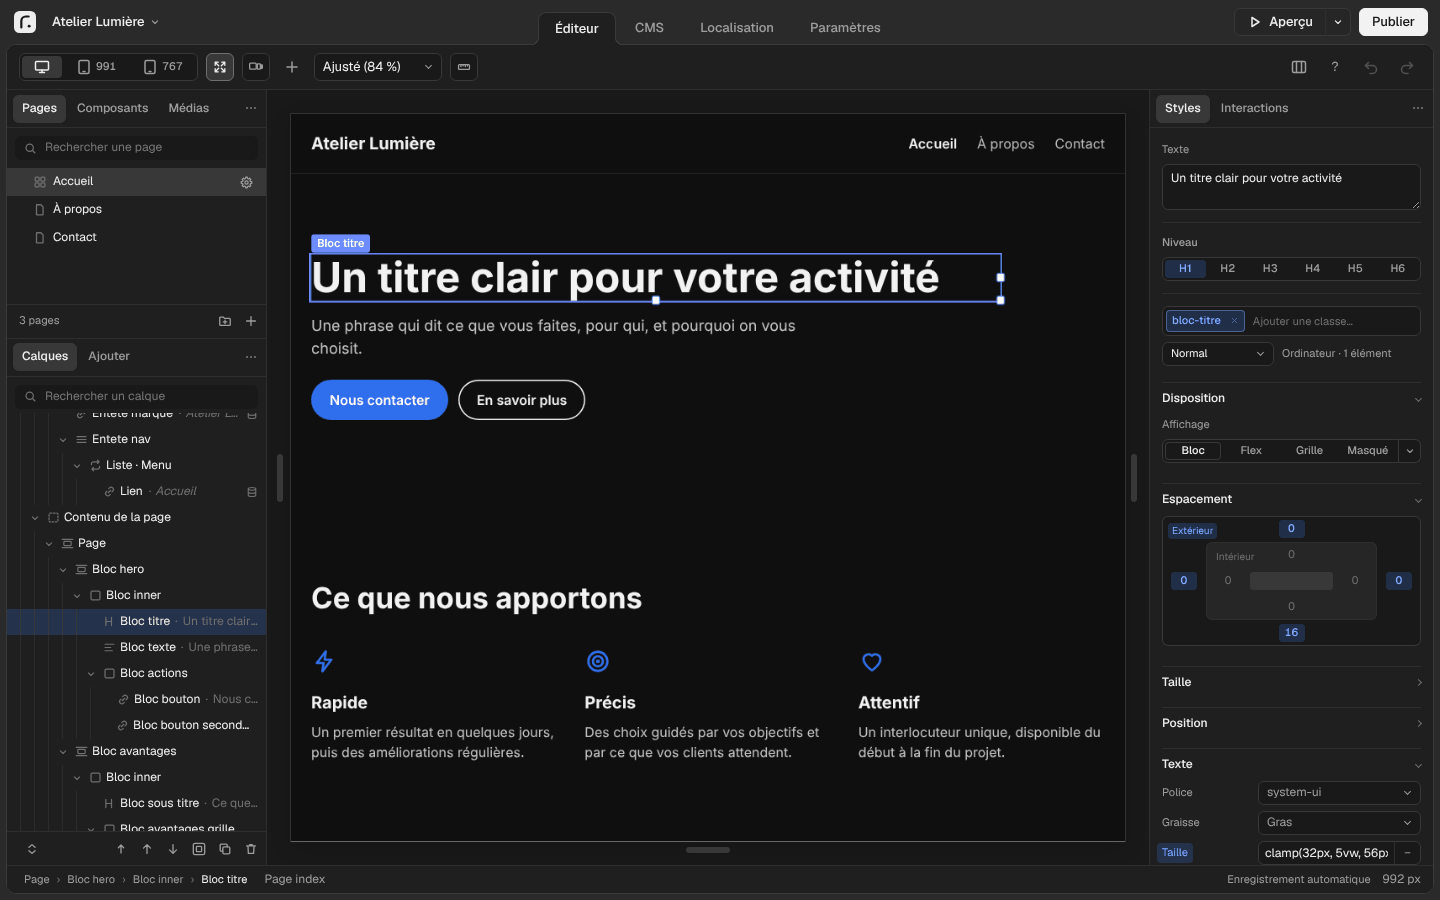
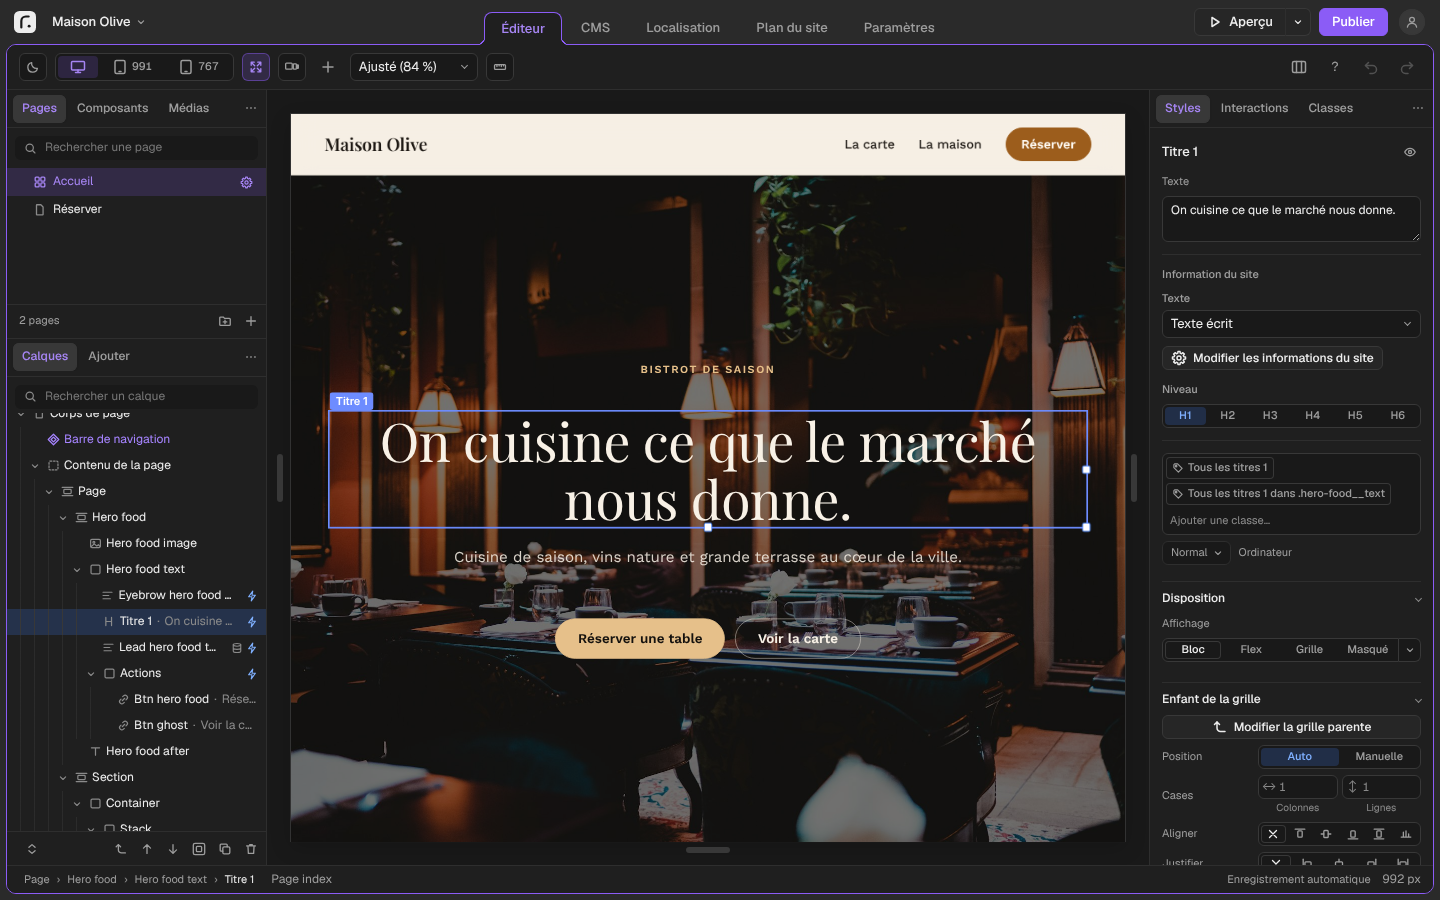
docs: README en sections repliables, captures refaites
Fonctions regroupées en sections repliables (modèles, pages, contenus et
plan du site, animations et panier, mise en ligne, reprise d'un site,
assistants et travail à plusieurs), installation et premier lancement,
partie anglaise et partie des développeurs repliées. Captures refaites sur
la 0.7.2 : éditeur (modèle Restaurant), galerie « Nouveau site », plan du
site (site cobaye), fenêtre d'import. Pont d'essai : site_templates relayé
(galerie des modèles avec leurs aperçus dans les essais et les captures).

Claude-Session: https://claude.ai/code/session_012qBHgPpriCtnKd7ouD61xj

diff --git a/apps/revel-ui/dev/mock-tauri.js b/apps/revel-ui/dev/mock-tauri.js
@@ -71,7 +71,7 @@
   // Pont vers un vrai cœur de Revel (`revel canvas-serve --bridge`) : paramètre `bridge=adresse`.
   // Les commandes de l'éditeur y sont transmises ; le reste reste simulé.
   const bridge = params.get("bridge");
-  const bridged = ["readable_data", "versions_status", "versions_init", "versions_list", "versions_save", "versions_changes", "versions_diff", "versions_restore", "versions_sync", "versions_incoming", "versions_receive", "versions_resolve", "versions_resolve_items", "versions_set_shared", "versions_set_remote", "fonts", "fonts_google", "fonts_add_google", "fonts_add_files", "fonts_remove", "translate_can", "translate", "translate_packs", "translate_remove", "edit_open", "edit_apply", "edit_seal", "edit_flatten_plan", "edit_undo", "edit_redo", "edit_pages", "edit_stamp", "canvas_open", "cms_collections", "cms_folders", "preview_url", "edit_media", "edit_import_media", "edit_replace_media", "edit_locale_data", "media_online", "media_localize", "template_save", "template_file_info"];
+  const bridged = ["readable_data", "versions_status", "versions_init", "versions_list", "versions_save", "versions_changes", "versions_diff", "versions_restore", "versions_sync", "versions_incoming", "versions_receive", "versions_resolve", "versions_resolve_items", "versions_set_shared", "versions_set_remote", "fonts", "fonts_google", "fonts_add_google", "fonts_add_files", "fonts_remove", "translate_can", "translate", "translate_packs", "translate_remove", "edit_open", "edit_apply", "edit_seal", "edit_flatten_plan", "site_templates", "edit_undo", "edit_redo", "edit_pages", "edit_stamp", "canvas_open", "cms_collections", "cms_folders", "preview_url", "edit_media", "edit_import_media", "edit_replace_media", "edit_locale_data", "media_online", "media_localize", "template_save", "template_file_info"];
   // Nom de dossier d'un nouveau site (comme revel_core::site_folder, sans les suffixes).
   const slug = (n) => n.trim().toLowerCase().normalize("NFD").replace(/[\u0300-\u036f]/g, "").replace(/[^a-z0-9]+/g, "-").replace(/^-+|-+$/g, "") || "site";
   // Collections de démonstration (sans pont).

diff --git a/crates/revel-core/src/devserver.rs b/crates/revel-core/src/devserver.rs
@@ -109,6 +109,7 @@ impl Core {
             ),
             "edit_seal" => json(self.edit_seal(site).map_err(f)?),
             "edit_flatten_plan" => json(self.edit_flatten_plan(site).map_err(f)?),
+            "site_templates" => json(self.site_templates(&arg::<String>(args, "lang")?)),
             "edit_pages" => json(self.edit_pages(site).map_err(f)?),
             "edit_media" => json(self.edit_media(site).map_err(f)?),
             "edit_locale_data" => json(

diff --git a/README.md b/README.md
@@ -7,54 +7,103 @@ ordinateur : pas de compte à créer, pas d'abonnement, et votre site reste à v
 > Version actuelle : **0.7.2**, en **préversion**. Revel est en cours de développement : l'essentiel fonctionne,
 > mais attendez-vous à des défauts. Gardez une copie de vos sites importants.
 
-![L'éditeur de Revel : la liste des pages et des calques à gauche, la page au centre, les réglages de l'élément choisi à droite](docs/captures/editeur.png)
+![L'éditeur de Revel : les pages et les calques à gauche, la page au centre, les réglages de l'élément choisi à droite](docs/captures/editeur.png)
+
+**[Télécharger Revel](https://github.com/matv-studio/Revel/releases)** · [Installer](#installer-revel) ·
+[Premiers pas](#premiers-pas) · [In English](#in-english) · [Pour les développeurs](#pour-les-développeurs)
 
 ## À quoi sert Revel
 
 Revel s'adresse à celles et ceux qui veulent un site soigné sans passer par un développeur ni par un service en
 ligne payant au mois. Si vous connaissez Webflow, Framer ou Figma, vous retrouverez la même façon de travailler.
+Le site produit est fait de fichiers standards (pages HTML, feuilles de style, images) : vous pouvez l'héberger où
+vous voulez, et il continue de fonctionner sans Revel.
 
-- **Partir d'un modèle.** 26 modèles de site par métier (agence, restaurant, boutique, cabinet, événement,
-  portfolio…), prêts à personnaliser ; vous pouvez partager les vôtres sous forme de fichier ou de catalogue
-  GitHub.
-- **Construire les pages à l'écran.** Vous placez des éléments (titres, textes, images, boutons, blocs), vous
-  les déplacez, vous écrivez directement dans la page. Les réglages (couleurs, polices, espacements,
-  disposition) se font dans des panneaux, avec des contrôles visuels plutôt que du code. Tout reste modifiable
-  depuis l'interface, y compris un site importé.
-- **Adapter le site à chaque écran.** Ordinateur, tablette, téléphone : chaque taille d'écran se règle à part ;
-  un titre peut s'ajuster à la taille de l'écran. Couleurs claires et sombres, avec un interrupteur pour vos
-  visiteurs.
-- **Voir le site d'un coup d'œil.** Le plan du site montre les pages, les collections et les menus reliés par
-  leurs liens ; on y crée, renomme ou redirige une page, et les liens cassés y sont signalés.
-- **Gérer des contenus.** Articles, projets, membres d'une équipe… sont rangés dans le CMS (gestion des
-  contenus), chacun avec ses champs ; leurs pages se créent toutes seules à partir d'un modèle.
+<details>
+<summary><b>Partir d'un modèle</b></summary>
+
+26 modèles de site par métier (agence, restaurant, boutique, cabinet, événement, portfolio…), prêts à
+personnaliser. Vous pouvez partager les vôtres sous forme de fichier ou de catalogue GitHub, et ouvrir ceux des
+autres depuis « Nouveau site ».
+
+![La galerie « Nouveau site » : modèles par métier, catalogues, fichier de modèle](docs/captures/modeles.png)
+
+</details>
+
+<details>
+<summary><b>Construire et adapter les pages</b></summary>
+
+- **À l'écran.** Vous placez des éléments (titres, textes, images, boutons, blocs), vous les déplacez, vous
+  écrivez directement dans la page. Les réglages (couleurs, polices, espacements, disposition) se font dans des
+  panneaux, avec des contrôles visuels plutôt que du code. Tout reste modifiable depuis l'interface, y compris
+  un site importé.
+- **Pour chaque écran.** Ordinateur, tablette, téléphone : chaque taille d'écran se règle à part ; un titre peut
+  s'ajuster à la taille de l'écran.
+- **En clair et en sombre.** Couleurs du site pour les deux modes, avec un interrupteur pour vos visiteurs.
 - **Réutiliser.** Composants (un en-tête, une carte, un pied de page) modifiés une fois pour toutes les pages,
   médias rangés en dossiers, images allégées automatiquement pour un site rapide.
-- **Animer.** Une quarantaine d'animations prêtes à l'emploi (apparitions, effets de texte, survol, défilement),
-  animations Lottie exportées d'After Effects, menus qui s'ouvrent, onglets, accordéons, carrousels, éléments
-  à glisser, horloge, toile de pixels à dessiner, transitions entre les pages.
+
+</details>
+
+<details>
+<summary><b>Gérer des contenus et voir le site d'un coup d'œil</b></summary>
+
+- **CMS.** Articles, projets, membres d'une équipe… sont rangés dans le CMS (gestion des contenus), chacun avec
+  ses champs ; leurs pages se créent toutes seules à partir d'un modèle.
+- **Plan du site.** Les pages, les collections et les menus reliés par leurs liens ; on y crée, renomme ou
+  redirige une page, et les pages sans lien ou les liens cassés y sont signalés.
+
+![Le plan du site : pages, collections et parties communes reliées par leurs liens](docs/captures/plan.png)
+
+</details>
+
+<details>
+<summary><b>Animer, vendre, traduire</b></summary>
+
+- **Animer.** Une quarantaine d'animations prêtes à l'emploi (apparitions, effets de texte, survol,
+  défilement), animations Lottie exportées d'After Effects, menus qui s'ouvrent, onglets, accordéons,
+  carrousels, éléments à glisser, horloge, toile de pixels à dessiner, transitions entre les pages.
 - **Vendre.** Un panier et un bouton « Ajouter au panier », commande reçue par courriel, paiement par vos liens
   Stripe ou PayPal.
 - **Traduire.** Un site en plusieurs langues ; la traduction automatique se fait sur votre ordinateur, sans
   envoyer vos textes à un service extérieur.
-- **Mettre en ligne en un clic.** La première fois, Revel vous guide pas à pas chez votre hébergeur (OVHcloud,
-  o2switch, Infomaniak, Hostinger, IONOS, ou tout autre hébergement qui accepte SFTP) ou sur GitHub Pages.
-  Il vérifie le site avant chaque publication et peut revenir à la publication précédente. Il vous aide aussi à
-  relier votre nom de domaine et à recevoir par courriel les messages des formulaires du site.
-- **Reprendre un site existant.** Un dossier de pages HTML, un site en ligne à partir de son adresse (y compris
-  un site Framer), un export Webflow et les contenus de son CMS, un fichier Figma, un export WordPress, un dépôt
-  Git ou un projet Eleventy. Un site à construire (SvelteKit, Next.js, Astro, Hugo, Jekyll…) peut être construit
-  par Revel, qui télécharge alors lui-même les outils nécessaires. Le site repris est remis dans la forme de
-  l'éditeur : calques, classes et réglages des panneaux, sans code à reprendre à la main.
-- **Travailler avec un assistant IA.** Claude, ChatGPT, LM Studio, Open WebUI… peuvent modifier votre site à
-  votre demande, par la conversation, depuis votre ordinateur.
-- **Garder l'historique.** Enregistrez des versions de votre site, comparez-les, revenez en arrière.
-- **Travailler à plusieurs.** Chacun modifie sa copie du site puis synchronise, par un dossier partagé de votre
-  réseau (NAS, serveur, sans compte) ou par un dépôt en ligne (GitHub, GitLab). Les modifications faites à des
-  endroits différents se combinent ; un même endroit modifié par deux personnes se choisit en un clic.
 
-Le site produit est fait de fichiers standards (pages HTML, feuilles de style, images) : vous pouvez l'héberger où
-vous voulez, et il continue de fonctionner sans Revel.
+</details>
+
+<details>
+<summary><b>Mettre en ligne</b></summary>
+
+La première fois, Revel vous guide pas à pas chez votre hébergeur (OVHcloud, o2switch, Infomaniak, Hostinger,
+IONOS, ou tout autre hébergement qui accepte SFTP) ou sur GitHub Pages ; ensuite, un clic suffit. Il vérifie le
+site avant chaque publication et peut revenir à la publication précédente. Il vous aide aussi à relier votre nom
+de domaine et à recevoir par courriel les messages des formulaires du site.
+
+</details>
+
+<details>
+<summary><b>Reprendre un site existant</b></summary>
+
+Un dossier de pages HTML, un site en ligne à partir de son adresse (y compris un site Framer), un export Webflow
+et les contenus de son CMS, un fichier Figma, un export WordPress, un dépôt Git ou un projet Eleventy. Un site à
+construire (SvelteKit, Next.js, Astro, Hugo, Jekyll…) peut être construit par Revel, qui télécharge alors
+lui-même les outils nécessaires. Le site repris est remis dans la forme de l'éditeur : calques, classes et
+réglages des panneaux, sans code à reprendre à la main.
+
+![La fenêtre « Importer un site » : Dossier, Lien, Dépôt Git, Figma, WordPress](docs/captures/importer.png)
+
+</details>
+
+<details>
+<summary><b>Travailler avec un assistant IA, garder l'historique, travailler à plusieurs</b></summary>
+
+- **Assistant IA.** Claude, ChatGPT, LM Studio, Open WebUI… peuvent modifier votre site à votre demande, par la
+  conversation, depuis votre ordinateur.
+- **Historique.** Enregistrez des versions de votre site, comparez-les, revenez en arrière.
+- **À plusieurs.** Chacun modifie sa copie du site puis synchronise, par un dossier partagé de votre réseau (NAS,
+  serveur, sans compte) ou par un dépôt en ligne (GitHub, GitLab). Les modifications faites à des endroits
+  différents se combinent ; un même endroit modifié par deux personnes se choisit en un clic.
+
+</details>
 
 ## Installer Revel
 
@@ -69,14 +118,19 @@ vous voulez, et il continue de fonctionner sans Revel.
 | Linux (toutes distributions récentes) | `Revel_…_amd64.AppImage` |
 | Linux Debian, Ubuntu | `Revel_…_amd64.deb` (au choix, à la place de l'AppImage) |
 
-Pour savoir quel Mac vous avez : menu Apple › « À propos de ce Mac » indique « Puce Apple M… » ou
-« Processeur Intel ».
+<details>
+<summary>Quel Mac ai-je ? À quoi servent les autres fichiers ?</summary>
 
-Les autres fichiers servent à des cas particuliers : `.msi` pour un déploiement par un service informatique
-sous Windows, `.rpm` pour Fedora et openSUSE. Ceux en `.sig`, `.app.tar.gz` et `latest.json` sont utilisés par
-les mises à jour automatiques : inutile de les télécharger.
+Menu Apple › « À propos de ce Mac » indique « Puce Apple M… » ou « Processeur Intel ».
 
-### Premier lancement
+Les autres fichiers servent à des cas particuliers : `.msi` pour un déploiement par un service informatique sous
+Windows, `.rpm` pour Fedora et openSUSE. Ceux en `.sig`, `.app.tar.gz` et `latest.json` sont utilisés par les
+mises à jour automatiques : inutile de les télécharger.
+
+</details>
+
+<details>
+<summary><b>Premier lancement : l'avertissement de votre système</b></summary>
 
 Revel n'est pas encore signé par un certificat d'éditeur (un service payant, prévu plus tard). Votre système vous
 prévient donc la première fois :
@@ -92,9 +146,9 @@ prévient donc la première fois :
   FUSE 2 : `sudo apt install libfuse2t64` (Ubuntu 24.04 et plus récent) ou `sudo apt install libfuse2`
   (Ubuntu 22.04).
 
-## Premiers pas
+</details>
 
-![La fenêtre « Importer un site » : Dossier, Lien, Dépôt Git, Figma, WordPress](docs/captures/importer.png)
+## Premiers pas
 
 1. **Créez ou reprenez un site.** Sur l'écran d'accueil, « Nouveau site » part d'une page vide ou d'un des
    modèles (« Plus » ouvre la galerie, les catalogues et les fichiers de modèle) ; « Importer » reprend un site
@@ -109,7 +163,8 @@ prévient donc la première fois :
 Un guide intégré, « Premiers pas », s'ouvre depuis le bouton « ? » de l'éditeur. Chaque réglage est décrit quand
 vous laissez la souris dessus.
 
-## Mises à jour
+<details>
+<summary><b>Mises à jour</b></summary>
 
 À partir de la version 0.6.0, Revel cherche une nouvelle version à chaque lancement. Quand il en trouve une, un
 bouton « Version x.y.z » apparaît en haut à droite ; Réglages › Mises à jour l'installe et relance Revel. Chaque
@@ -119,7 +174,10 @@ Les versions d'essai (préversions) ne sont proposées que si vous cochez « Rec
 Réglages › Mises à jour. Les versions antérieures à la 0.6.0 ne se mettent pas à jour seules : installez la
 nouvelle version par-dessus.
 
-## Vos données
+</details>
+
+<details>
+<summary><b>Vos données</b></summary>
 
 Vos sites restent dans des dossiers de votre ordinateur, que vous choisissez. Revel n'a pas de compte, ne mesure
 pas votre utilisation et n'envoie rien de lui-même, en dehors de la recherche de mise à jour (sur GitHub). Il ne
@@ -128,7 +186,10 @@ traduction ou une police Google, importer un site depuis un lien, Figma ou Webfl
 domaine, utiliser votre compte GitHub. Vos mots de passe et jetons d'accès sont gardés dans le trousseau sécurisé
 de votre système, jamais dans un fichier.
 
-## Où en est le projet
+</details>
+
+<details>
+<summary><b>Où en est le projet</b></summary>
 
 Revel avance par étapes ; les sept premières sont terminées : socle, ouverture et publication d'un site, éditeur
 visuel, contenus et site complet, assistants IA, mise en ligne directe, finition (animations, mises à jour, aide,
@@ -137,25 +198,36 @@ site, modèles, panier, langues de l'interface, imports entièrement modifiables
 qui supprimera les avertissements du premier lancement, est prévue en option. Le détail est dans
 [docs/PLAN.md](docs/PLAN.md), et les choix faits en chemin dans [docs/DECISIONS.md](docs/DECISIONS.md).
 
+</details>
+
 Un problème, une idée ? Ouvrez un ticket dans l'onglet [Issues](https://github.com/matv-studio/Revel/issues).
 
 ## In English
 
 Revel is a free desktop app (Windows, macOS, Linux) to build a website visually, without code, and publish it to
 the host of your choice. It works offline on your computer, with no account or subscription; the result is plain
-HTML, CSS and images that you own. The interface is available in 15 languages (Settings › General). It
-includes 26 site templates, a visual editor, a CMS, components, animations, a site map, a cart with Stripe or
-PayPal payment links, multilingual sites with on-device machine translation,
-one-click publishing (SFTP hosts or GitHub Pages), imports from Webflow, Framer, Figma, WordPress, static HTML,
-Eleventy and Git repositories (sites that need building are built by Revel on request; imported sites become fully
-editable in the panels, without code), team work through a shared
-network folder or an online repository, and a local connector for AI assistants. Download the installer for your system from the
-[releases page](https://github.com/matv-studio/Revel/releases). Revel is a pre-release (0.7.2): expect rough
-edges, and keep a copy of important sites.
+HTML, CSS and images that you own.
+
+<details>
+<summary>What it does</summary>
+
+The interface is available in 15 languages (Settings › General). Revel includes 26 site templates, a visual
+editor, a CMS, components, animations, a site map, a cart with Stripe or PayPal payment links, multilingual sites
+with on-device machine translation, one-click publishing (SFTP hosts or GitHub Pages), imports from Webflow,
+Framer, Figma, WordPress, static HTML, Eleventy and Git repositories (sites that need building are built by Revel
+on request; imported sites become fully editable in the panels, without code), team work through a shared network
+folder or an online repository, and a local connector for AI assistants. Download the installer for your system
+from the [releases page](https://github.com/matv-studio/Revel/releases). Revel is a pre-release (0.7.2): expect
+rough edges, and keep a copy of important sites.
+
+</details>
 
 ---
 
 ## Pour les développeurs
+
+<details>
+<summary>Architecture, modules, essais</summary>
 
 Revel est écrit en Rust : une application de bureau [Tauri 2](https://tauri.app), une interface en
 [Leptos](https://leptos.dev) compilée en WebAssembly, et un cœur découpé en bibliothèques indépendantes.
@@ -203,6 +275,8 @@ workflow *Étiquette*.
 Chaque étape terminée reçoit une étiquette Git `step-N` (`git checkout step-5` restaure l'état exact), et chaque
 module peut revenir seul à une étape tant que son interface publique n'a pas changé
 (`git checkout step-5 -- crates/revel-deploy`).
+
+</details>
 
 ## Licence
 
